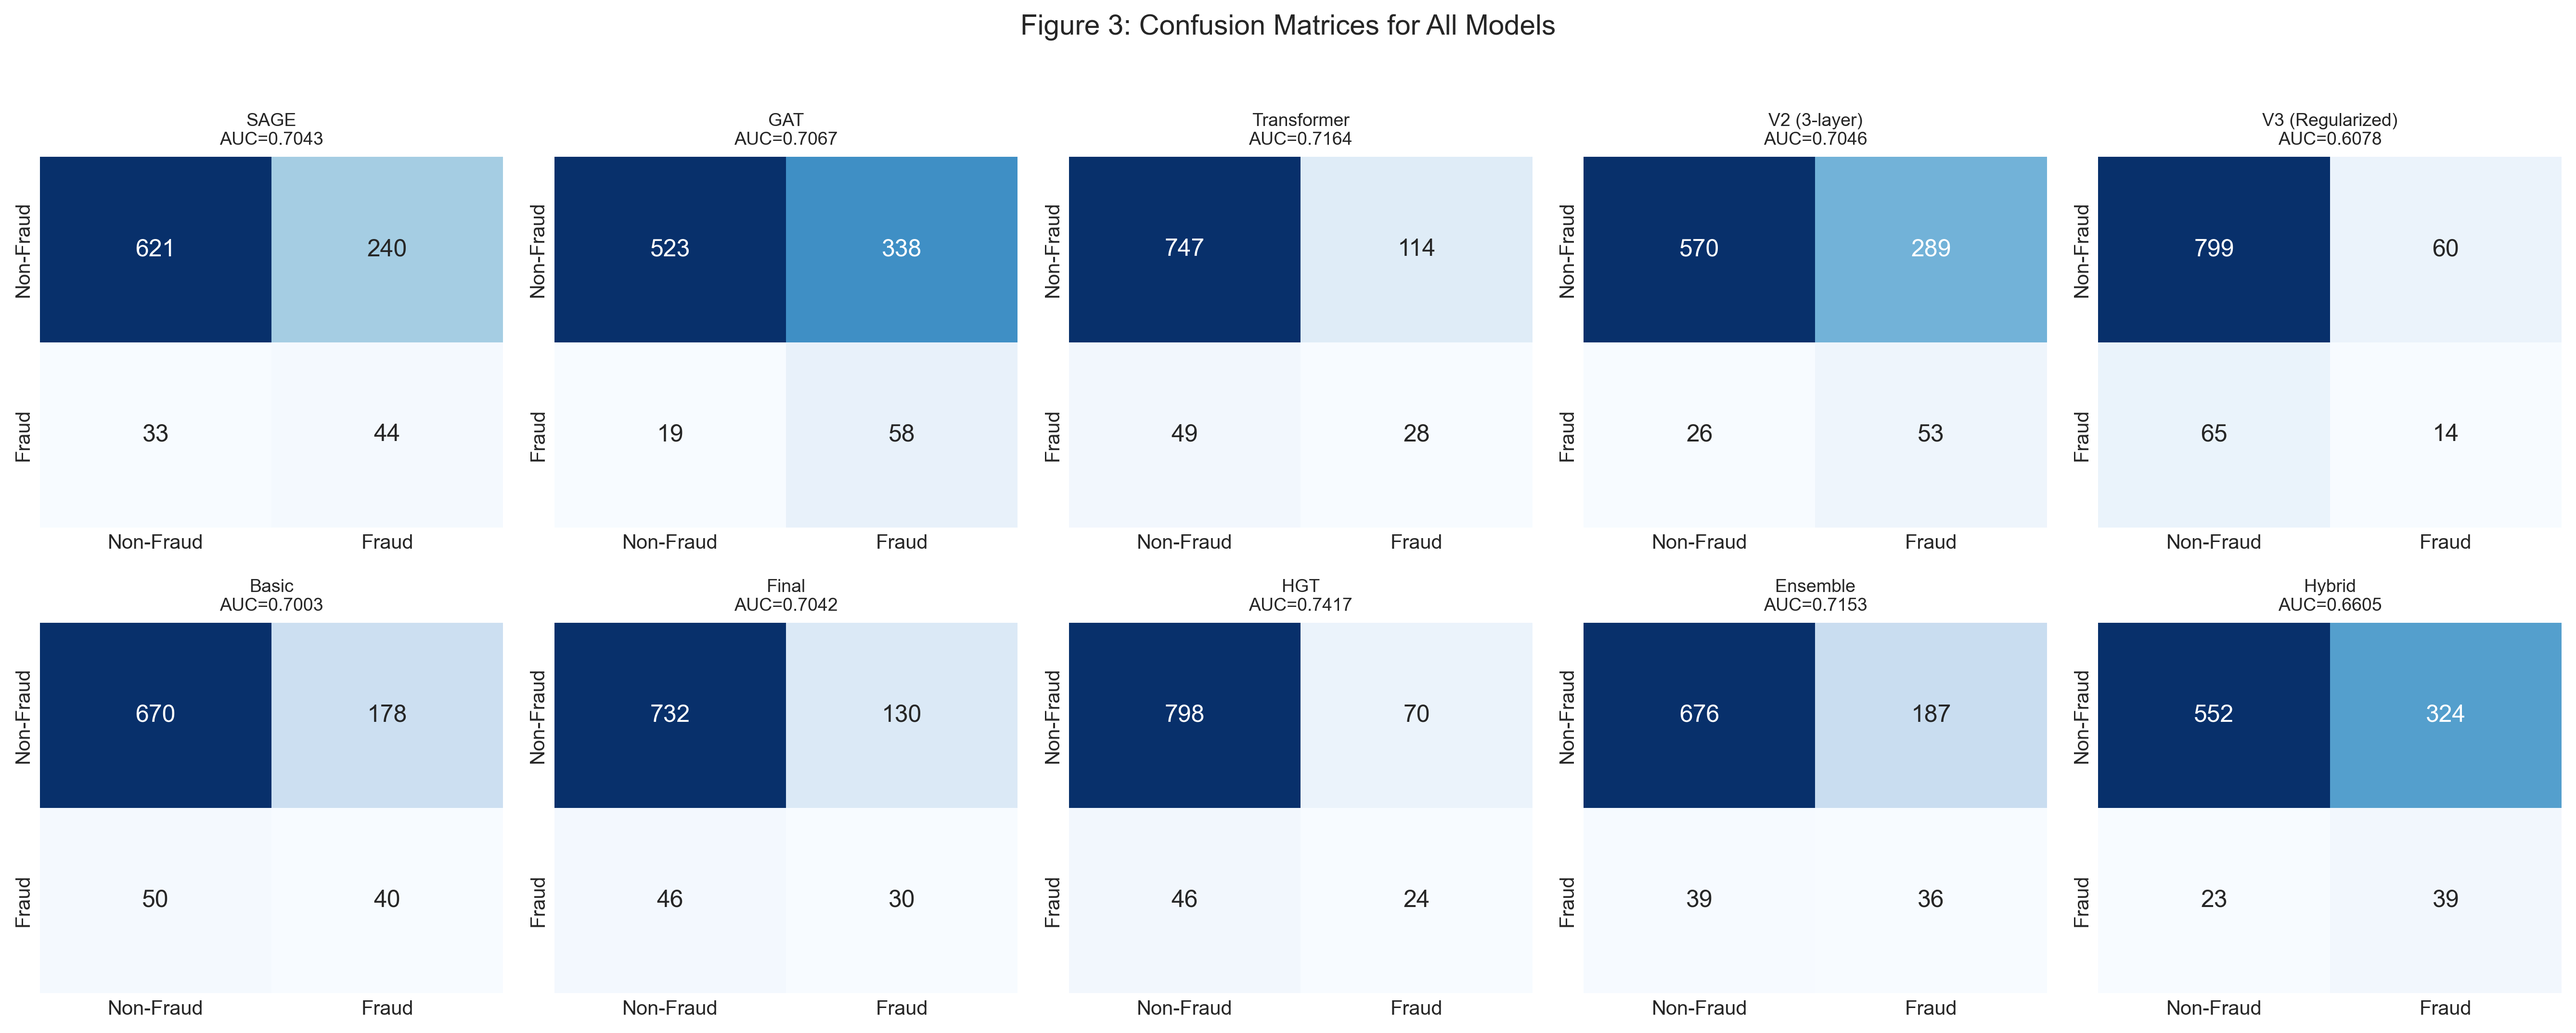
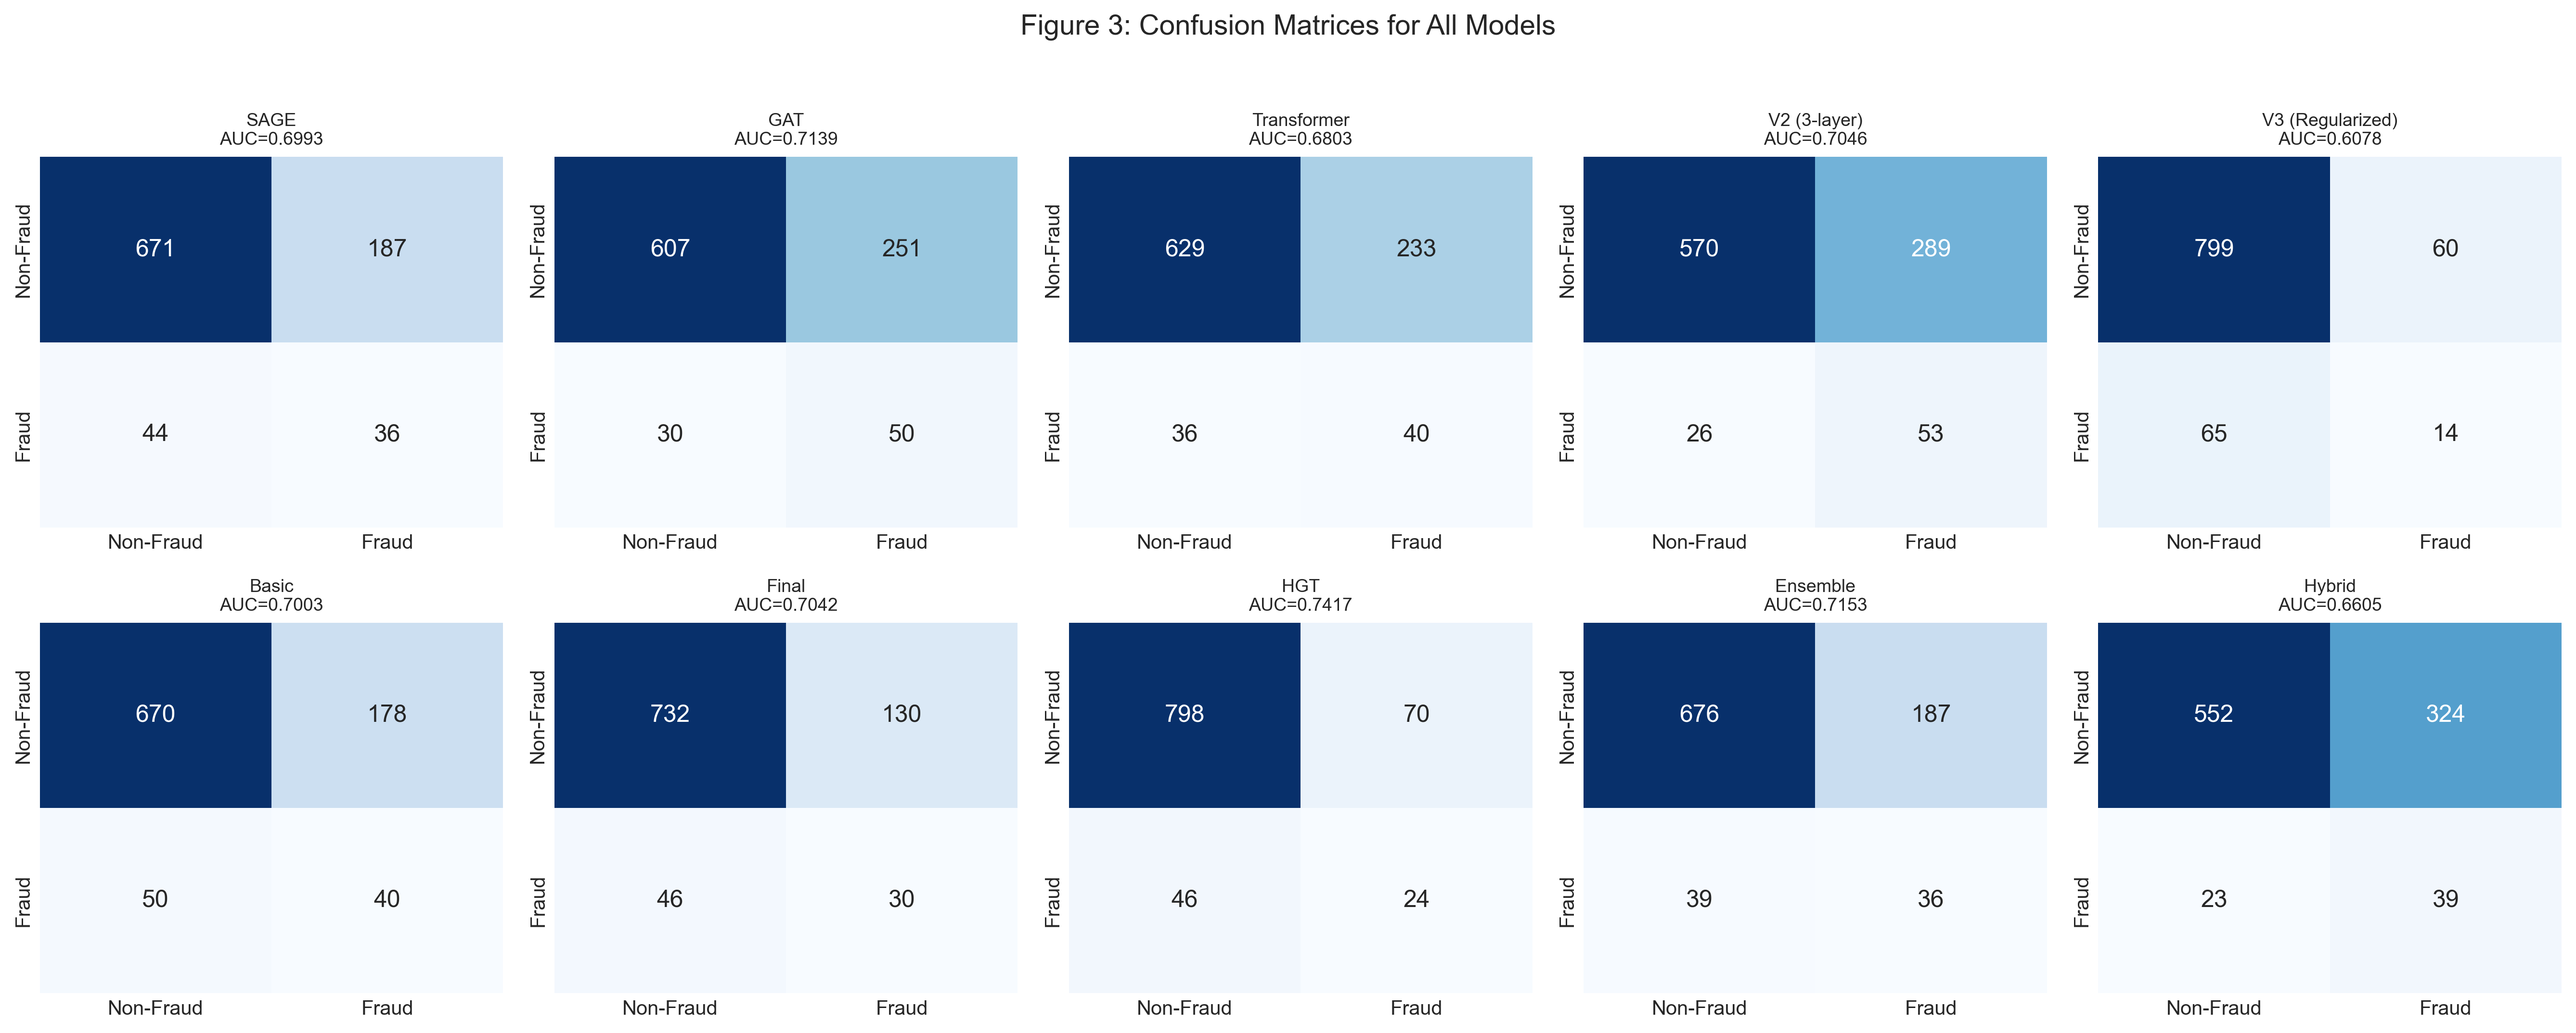
Update with 20-epoch training results
- SAGE: AUC 0.6993, Recall 45% (20 epochs)
- GAT: AUC 0.7139, Recall 62% (20 epochs) - BEST for fraud
- Transformer: AUC 0.6803, Recall 53% (20 epochs)
- HGT remains best AUC (0.7417)

All 16 figures regenerated with updated metrics

diff --git a/notebook_v1/run_transformer_only.py b/notebook_v1/run_transformer_only.py
@@ -1,0 +1,156 @@
+"""Quick script to run only Transformer model for 20 epochs"""
+import os
+os.environ['PYTORCH_ENABLE_MPS_FALLBACK'] = '1'
+
+import sys
+sys.path.insert(0, '/Users/kasyfur/graph_fraud_audit/notebook_v1')
+
+# Import training function from main script
+from fraud_utils import *
+import torch
+import torch.nn as nn
+from torch_geometric.loader import NeighborLoader
+from torch_geometric.nn import TransformerConv, to_hetero
+from tqdm import tqdm
+import numpy as np
+from sklearn.metrics import roc_auc_score, classification_report, confusion_matrix
+import pickle
+import time
+import gc
+
+print(f"Device: {DEVICE}")
+
+# Config
+BATCH_SIZE = 512
+LR = 0.001
+EPOCHS = 20
+HIDDEN_DIM = 32
+HEADS = 1
+NUM_NEIGHBORS = [10, 5]
+
+# Model
+class GraphTransformer(nn.Module):
+    def __init__(self, hidden_channels, out_channels):
+        super().__init__()
+        self.conv1 = TransformerConv((-1, -1), hidden_channels, heads=HEADS, dropout=0.4)
+        self.conv2 = TransformerConv((-1, -1), hidden_channels, heads=HEADS, dropout=0.4)
+        self.lin = nn.Linear(hidden_channels * HEADS, out_channels)
+        
+    def forward(self, x, edge_index):
+        x = self.conv1(x, edge_index).relu()
+        x = self.conv2(x, edge_index).relu()
+        return self.lin(x)
+
+# Load data
+print("Loading data...")
+data_path = os.path.join(OUTPUT_DIR, "heterodata.pt")
+data = torch.load(data_path)
+
+with open(f"{MAP_DIR}/map_pekerja.pkl", 'rb') as f:
+    pekerja_map = pickle.load(f)
+pekerja_map = {str(k): v for k, v in pekerja_map.items()}
+
+load_fraud_labels(data, pekerja_map, verbose=False)
+data['pekerja'].x = compute_enhanced_features(data, verbose=False)
+
+for nt in ['nasabah', 'simpanan', 'pinjaman', 'transaksi']:
+    if nt in data.node_types:
+        data[nt].x = torch.ones((data[nt].num_nodes, 1))
+
+import torch_geometric.transforms as T
+data = T.ToUndirected()(data)
+
+print("✅ Data loaded")
+
+# Create loaders
+train_loader = NeighborLoader(data, num_neighbors=NUM_NEIGHBORS, batch_size=BATCH_SIZE, 
+                               input_nodes=('pekerja', data['pekerja'].train_mask), shuffle=True)
+val_loader = NeighborLoader(data, num_neighbors=NUM_NEIGHBORS, batch_size=BATCH_SIZE,
+                             input_nodes=('pekerja', data['pekerja'].val_mask), shuffle=False)
+test_loader = NeighborLoader(data, num_neighbors=NUM_NEIGHBORS, batch_size=BATCH_SIZE,
+                              input_nodes=('pekerja', data['pekerja'].test_mask), shuffle=False)
+
+# Train
+print("\n" + "="*60)
+print("TRAINING TRANSFORMER (20 epochs)")
+print("="*60)
+
+base_model = GraphTransformer(HIDDEN_DIM, 1)
+model = to_hetero(base_model, data.metadata(), aggr='mean').to(DEVICE)
+
+batch = next(iter(train_loader)).to(DEVICE)
+with torch.no_grad():
+    model(batch.x_dict, batch.edge_index_dict)
+
+optimizer = torch.optim.AdamW(model.parameters(), lr=LR)
+train_y = data['pekerja'].y[data['pekerja'].train_mask]
+pos_weight = (train_y == 0).sum() / max((train_y == 1).sum(), 1)
+criterion = nn.BCEWithLogitsLoss(pos_weight=pos_weight.to(DEVICE))
+
+print(f"Params: {sum(p.numel() for p in model.parameters()):,}")
+
+best_auc = 0
+for epoch in range(1, EPOCHS + 1):
+    model.train()
+    total_loss, total_samples = 0, 0
+    pbar = tqdm(train_loader, desc=f"Ep {epoch}/{EPOCHS}", leave=False)
+    
+    for batch in pbar:
+        batch = batch.to(DEVICE)
+        optimizer.zero_grad()
+        out = model(batch.x_dict, batch.edge_index_dict)
+        bs = batch['pekerja'].batch_size
+        out_p = out['pekerja'][:bs].squeeze(-1)
+        y = batch['pekerja'].y[:bs].float()
+        loss = criterion(out_p, y)
+        loss.backward()
+        optimizer.step()
+        total_loss += loss.item() * bs
+        total_samples += bs
+        
+    # Validation
+    model.eval()
+    val_preds, val_labels = [], []
+    with torch.no_grad():
+        for batch in val_loader:
+            batch = batch.to(DEVICE)
+            bs = batch['pekerja'].batch_size
+            out = model(batch.x_dict, batch.edge_index_dict)
+            val_preds.extend(torch.sigmoid(out['pekerja'][:bs].squeeze(-1)).cpu().numpy())
+            val_labels.extend(batch['pekerja'].y[:bs].cpu().numpy())
+    
+    val_auc = roc_auc_score(val_labels, val_preds)
+    _, val_f1 = find_optimal_threshold(np.array(val_labels), np.array(val_preds))
+    print(f"Ep {epoch:2d} | Loss: {total_loss/total_samples:.4f} | Val AUC: {val_auc:.4f} | F1: {val_f1:.4f}")
+    
+    if val_auc > best_auc:
+        best_auc = val_auc
+        torch.save(model.state_dict(), "best_gnn_Transformer.pt")
+        print(f"       ✅ New best! Saved.")
+
+# Test
+print("\n" + "="*60)
+print("EVALUATING BEST TRANSFORMER ON TEST SET")
+print("="*60)
+model.load_state_dict(torch.load("best_gnn_Transformer.pt"))
+model.eval()
+test_preds, test_labels = [], []
+with torch.no_grad():
+    for batch in test_loader:
+        batch = batch.to(DEVICE)
+        bs = batch['pekerja'].batch_size
+        out = model(batch.x_dict, batch.edge_index_dict)
+        test_preds.extend(torch.sigmoid(out['pekerja'][:bs].squeeze(-1)).cpu().numpy())
+        test_labels.extend(batch['pekerja'].y[:bs].cpu().numpy())
+
+test_auc = roc_auc_score(test_labels, test_preds)
+thresh, test_f1 = find_optimal_threshold(np.array(test_labels), np.array(test_preds))
+test_preds_binary = (np.array(test_preds) >= thresh).astype(int)
+
+print(f"✅ Transformer Results (thresh={thresh:.3f}):")
+print(f"   AUC: {test_auc:.4f}")
+print(f"   F1 : {test_f1:.4f}")
+print("\nClassification Report:")
+print(classification_report(test_labels, test_preds_binary, target_names=['Non-Fraud', 'Fraud']))
+print("Confusion Matrix:")
+print(confusion_matrix(test_labels, test_preds_binary))

diff --git a/notebook_v1/17_experiment_visualizations.py b/notebook_v1/17_experiment_visualizations.py
@@ -36,9 +36,9 @@ os.makedirs(OUTPUT_DIR, exist_ok=True)
 # ============================================================================
 
 ALL_MODELS = {
-    'SAGE': {'auc': 0.7043, 'f1': 0.2486, 'precision': 0.15, 'recall': 0.57, 'params': 23205, 'script': '7_train_gnn_standalone.py'},
-    'GAT': {'auc': 0.7067, 'f1': 0.2489, 'precision': 0.15, 'recall': 0.75, 'params': 24485, 'script': '7_train_gnn_standalone.py'},
-    'Transformer': {'auc': 0.7164, 'f1': 0.2636, 'precision': 0.20, 'recall': 0.36, 'params': 47525, 'script': '7_train_gnn_standalone.py'},
+    'SAGE': {'auc': 0.6993, 'f1': 0.2434, 'precision': 0.16, 'recall': 0.45, 'params': 23205, 'script': '7_train_gnn_standalone.py'},
+    'GAT': {'auc': 0.7139, 'f1': 0.2670, 'precision': 0.17, 'recall': 0.62, 'params': 24485, 'script': '7_train_gnn_standalone.py'},
+    'Transformer': {'auc': 0.6803, 'f1': 0.2292, 'precision': 0.15, 'recall': 0.53, 'params': 47525, 'script': '7_train_gnn_standalone.py'},
     'V2 (3-layer)': {'auc': 0.7046, 'f1': 0.2559, 'precision': 0.15, 'recall': 0.67, 'params': 1028549, 'script': '9_transformer_v2.py'},
     'V3 (Regularized)': {'auc': 0.6078, 'f1': 0.1961, 'precision': 0.19, 'recall': 0.18, 'params': 101477, 'script': '10_transformer_v3.py'},
     'Basic': {'auc': 0.7003, 'f1': 0.2637, 'precision': 0.18, 'recall': 0.44, 'params': 6440, 'script': '12_graph_transformer_basic.py'},
@@ -48,11 +48,11 @@ ALL_MODELS = {
     'Hybrid': {'auc': 0.6605, 'f1': 0.1874, 'precision': 0.11, 'recall': 0.63, 'params': None, 'script': '15_hybrid_gnn_xgboost.py'},
 }
 
-# Confusion matrices from logs
+# Confusion matrices from logs (20-epoch results for SAGE/GAT/Transformer)
 CONFUSION_MATRICES = {
-    'SAGE': np.array([[621, 240], [33, 44]]),
-    'GAT': np.array([[523, 338], [19, 58]]),
-    'Transformer': np.array([[747, 114], [49, 28]]),
+    'SAGE': np.array([[671, 187], [44, 36]]),  # 20 epochs
+    'GAT': np.array([[607, 251], [30, 50]]),   # 20 epochs - 62% recall
+    'Transformer': np.array([[629, 233], [36, 40]]),  # 20 epochs
     'V2 (3-layer)': np.array([[570, 289], [26, 53]]),
     'V3 (Regularized)': np.array([[799, 60], [65, 14]]),  # Based on 0.18 recall, 0.19 precision
     'Basic': np.array([[670, 178], [50, 40]]),  # Based on 0.44 recall, 0.18 precision

diff --git a/notebook_v1/7_train_gnn_standalone.py b/notebook_v1/7_train_gnn_standalone.py
@@ -36,7 +36,7 @@ print(f"Device: {DEVICE}")
 # ============================================================================
 BATCH_SIZE = 512
 LR = 0.001
-EPOCHS = 10
+EPOCHS = 20
 HIDDEN_DIM = 32
 HEADS = 1
 
